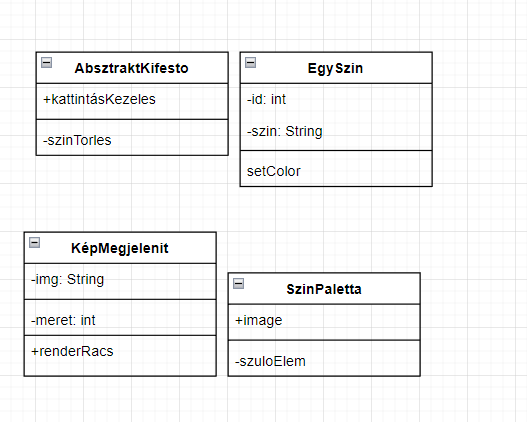
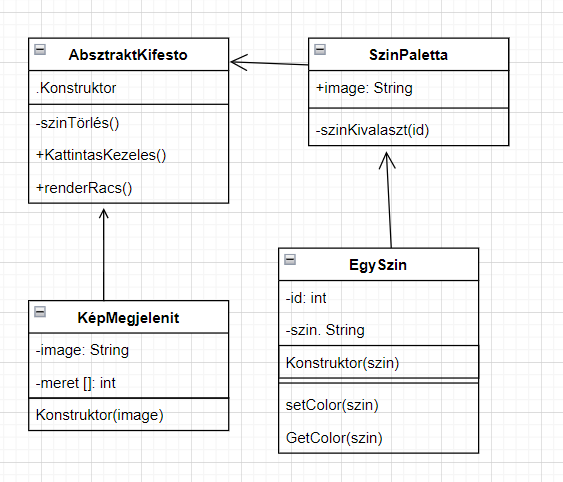
kódrendezés

Changed region(s): [[0.0304, 0.0616, 0.9108, 0.955]]

diff --git a/AbsztraktKifesto.js b/AbsztraktKifesto.js
@@ -1,0 +1,15 @@
+class AbsztraktKifesto{
+    constructor(){
+
+    }
+    szinTorles(){
+
+    }
+    kattintasKezeles(){
+
+    }
+    renderRacs(){
+
+    }
+}
+export default AbsztraktKifesto;
